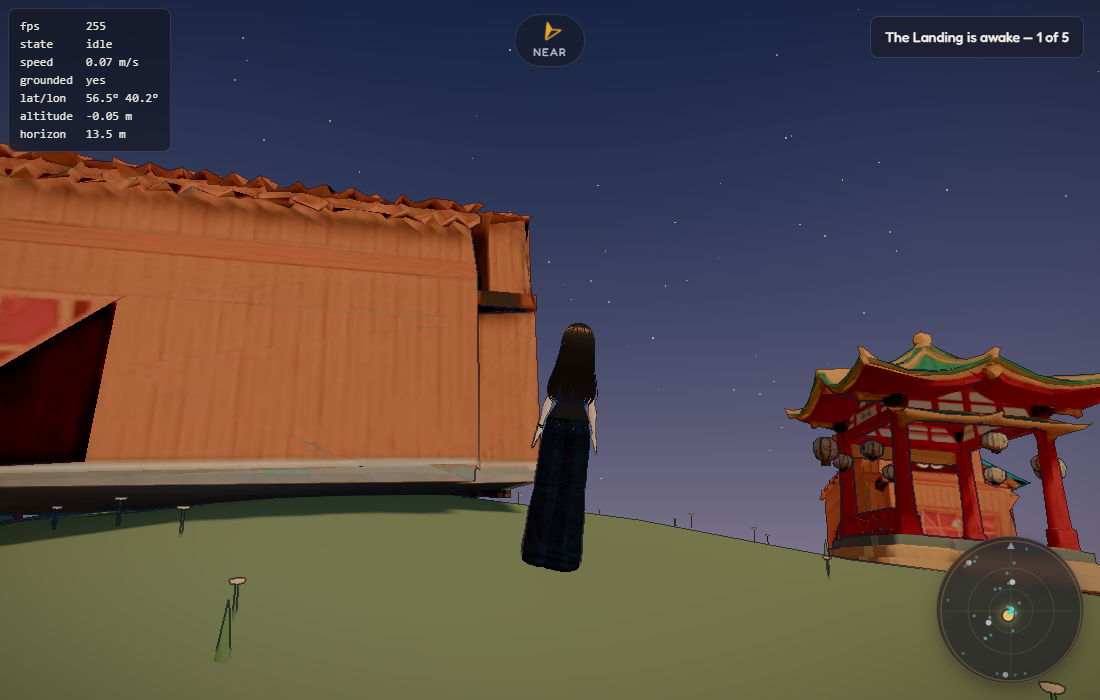
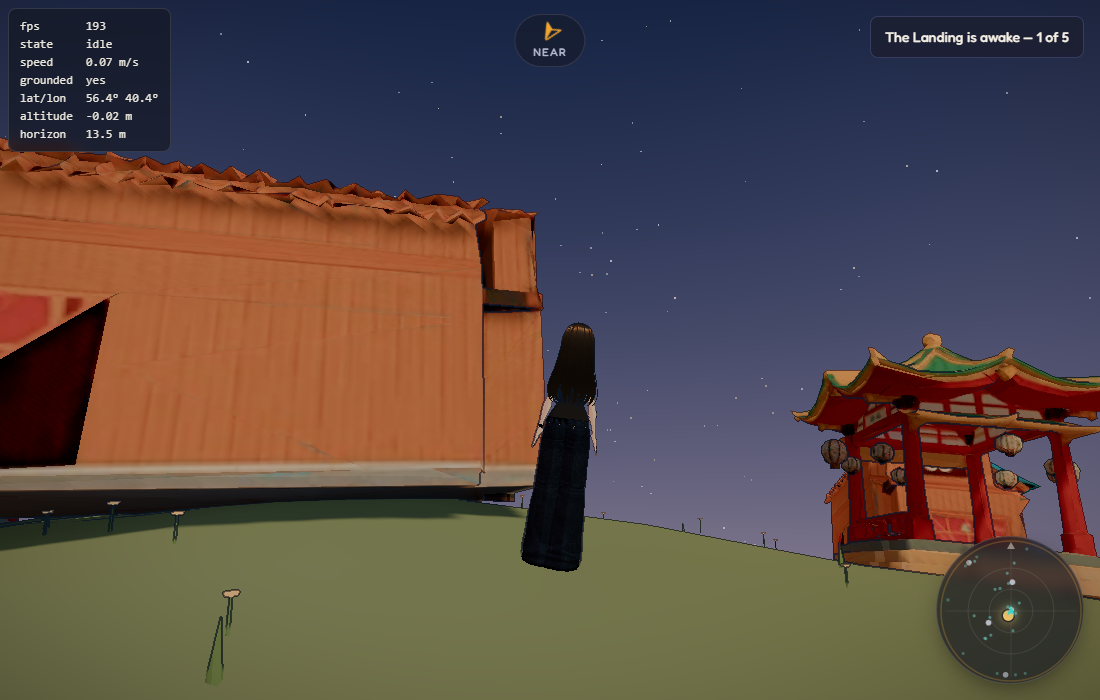
fix: her forearms folded outward, the cat barely reacted, and torii were fencing
Three from one screenshot.

**The elbow sign was mirrored and I wrote the numbers straight.** `poseArms`
multiplies elbow flexion by `sign` because the left arm folds on negative Y
and the right on positive. The crouch hard-coded the values instead and got
*both* backwards, folding her forearms outward. Exactly the same trap as the
original elbow bug, one level down — which is the argument for the constants
now sitting next to the code that uses them.

**The cat's reaction was a 9% squash, and 9% of a rigid mesh is nothing.** A
mesh with no bones has only its transform, so a subtle reaction is no
reaction. It now uses all three channels a matrix offers: it **hops** —
leaving the ground is the loudest thing a small animal can do and the only
part that reads from three metres — it **squashes on landing rather than while
rising**, which is what turns a vertical translation into weight, and it
**leans back** to look up at whoever is standing over it.

**Fifteen torii is a fence.** Three per district across five districts, on a
planet you can walk around in four minutes. A torii is a *threshold*; fifteen
of them means nothing. One per district, at the edge of the settlement, is an
entrance. Verified: one instance.

diff --git a/src/game/entities/cats.ts b/src/game/entities/cats.ts
@@ -51,6 +51,10 @@ const _up = new THREE.Vector3();
 const _forward = new THREE.Vector3();
 const _right = new THREE.Vector3();
 const _toPoint = new THREE.Vector3();
+const _position = new THREE.Vector3();
+const _quat = new THREE.Quaternion();
+const _tilt = new THREE.Quaternion();
+const _axisX = new THREE.Vector3(1, 0, 0);
 
 /** How long the delight from one pet lasts, in seconds. */
 const PET_DURATION = 1.4;
@@ -152,17 +156,43 @@ export class Cats {
       // being shifted rather than the whole animal pulsing.
       let breath = 1 + Math.sin(t * 1.6) * 0.014 + Math.sin(t * 0.43) * 0.008;
 
-      // Being petted: a quick squash-and-stretch that decays. Scale is all a
-      // rigid mesh has, so it has to carry the whole reaction — and a bounce
-      // that *overshoots* on the way back is what makes it read as delight
-      // rather than as a size change.
+      // Being petted.
+      //
+      // The first version was a 9% squash and it was invisible — a rigid mesh
+      // has only its transform, so if the reaction is subtle there is no
+      // reaction. This uses all three channels a matrix offers:
+      //
+      //  - **it hops.** Leaving the ground is the loudest thing a small
+      //    creature can do, and it is the part that actually reads at three
+      //    metres.
+      //  - **it squashes on landing**, not while rising, which is what turns a
+      //    vertical translation into weight.
+      //  - **it leans back** to look up at whoever is above it.
+      //
+      // Two hops, decaying, over the same window as her crouch.
+      let lift = 0;
+      let lean = 0;
       if (cat.happy > 0) {
         const k = cat.happy / PET_DURATION;
-        breath += Math.sin(k * Math.PI * 3) * 0.09 * k;
+        const bounce = Math.abs(Math.sin(k * Math.PI * 2));
+        lift = bounce * 0.16 * k;
+        // Squash hardest at the bottom of each hop.
+        breath += (1 - bounce) * 0.14 * k;
+        lean = k * 0.5;
       }
-      _scale.setScalar(cat.scale * breath);
 
-      _matrix.compose(cat.position, orientToSurface(cat.position, cat.yaw), _scale);
+      _scale.setScalar(cat.scale * breath);
+      _up.copy(cat.position).normalize();
+      _position.copy(cat.position).addScaledVector(_up, lift);
+
+      _quat.copy(orientToSurface(cat.position, cat.yaw));
+      if (lean > 0) {
+        // Tip back about its own right axis, so the chin comes up.
+        _tilt.setFromAxisAngle(_axisX, -lean);
+        _quat.multiply(_tilt);
+      }
+
+      _matrix.compose(_position, _quat, _scale);
       mesh.setMatrixAt(i, _matrix);
     }
     mesh.instanceMatrix.needsUpdate = true;

diff --git a/src/game/entities/VrmCharacter.ts b/src/game/entities/VrmCharacter.ts
@@ -807,13 +807,22 @@ export class VrmCharacter implements LoadedCharacter {
     this.rotate('neck', S * 0.3 * weight, 0, 0);
 
     // The reaching arm. Forward and down, elbow softened.
+    //
+    // **Elbow sign is mirrored per side** — the left arm folds on negative Y and
+    // the right on positive, which is why `poseArms` multiplies by `sign`.
+    // Writing the numbers directly here got both of them backwards and folded
+    // her forearms *outward*, which is exactly as bad as it sounds. Same trap as
+    // the original elbow bug, one level down.
+    const LEFT = 1;
+    const RIGHT = -1;
+
     this.rotate('rightUpperArm', S * -0.95 * weight, 0, -(ARM_DOWN + 0.12 - 0.5 * weight));
-    this.rotate('rightLowerArm', 0, -0.55 * weight, 0);
-    this.rotate('rightHand', 0, -0.2 * weight, 0);
+    this.rotate('rightLowerArm', 0, RIGHT * -0.55 * weight, 0);
+    this.rotate('rightHand', 0, RIGHT * -0.2 * weight, 0);
 
     // The other arm rests on the knee.
     this.rotate('leftUpperArm', S * -0.35 * weight, 0, ARM_DOWN + 0.12 + 0.15 * weight);
-    this.rotate('leftLowerArm', 0, 0.9 * weight, 0);
+    this.rotate('leftLowerArm', 0, LEFT * -0.9 * weight, 0);
   }
 
   /** Crouch down and reach out. Called when the player pets something. */

diff --git a/src/game/scenes/PlanetScene.ts b/src/game/scenes/PlanetScene.ts
@@ -692,9 +692,15 @@ export class PlanetScene implements IScene {
       // nothing lands on top of anything else. The imports are loaded without
       // awaiting for the same reason the cats are: decoration must never hold
       // up the first frame.
-      const forTorii = villageSpots.filter((_, i) => i % 5 === 0);
-      const forLantern = villageSpots.filter((_, i) => i % 5 === 1 || i % 5 === 2);
-      const forStall = villageSpots.filter((_, i) => i % 5 > 2);
+      // **Exactly one torii per district.**
+      //
+      // There were three, which across five districts is fifteen gates on a
+      // planet you can walk around in four minutes — and a torii is a
+      // *threshold*. Fifteen of them is a fence, and a fence means nothing.
+      // One, standing at the edge of the settlement, is an entrance.
+      const forTorii = villageSpots.slice(0, 1);
+      const forLantern = villageSpots.filter((_, i) => i > 0 && i % 3 !== 0);
+      const forStall = villageSpots.filter((_, i) => i > 0 && i % 3 === 0);
 
       for (const mesh of buildVillageSet(forStall, def.id.length * 449)) {
         this.world.scene.add(mesh);
